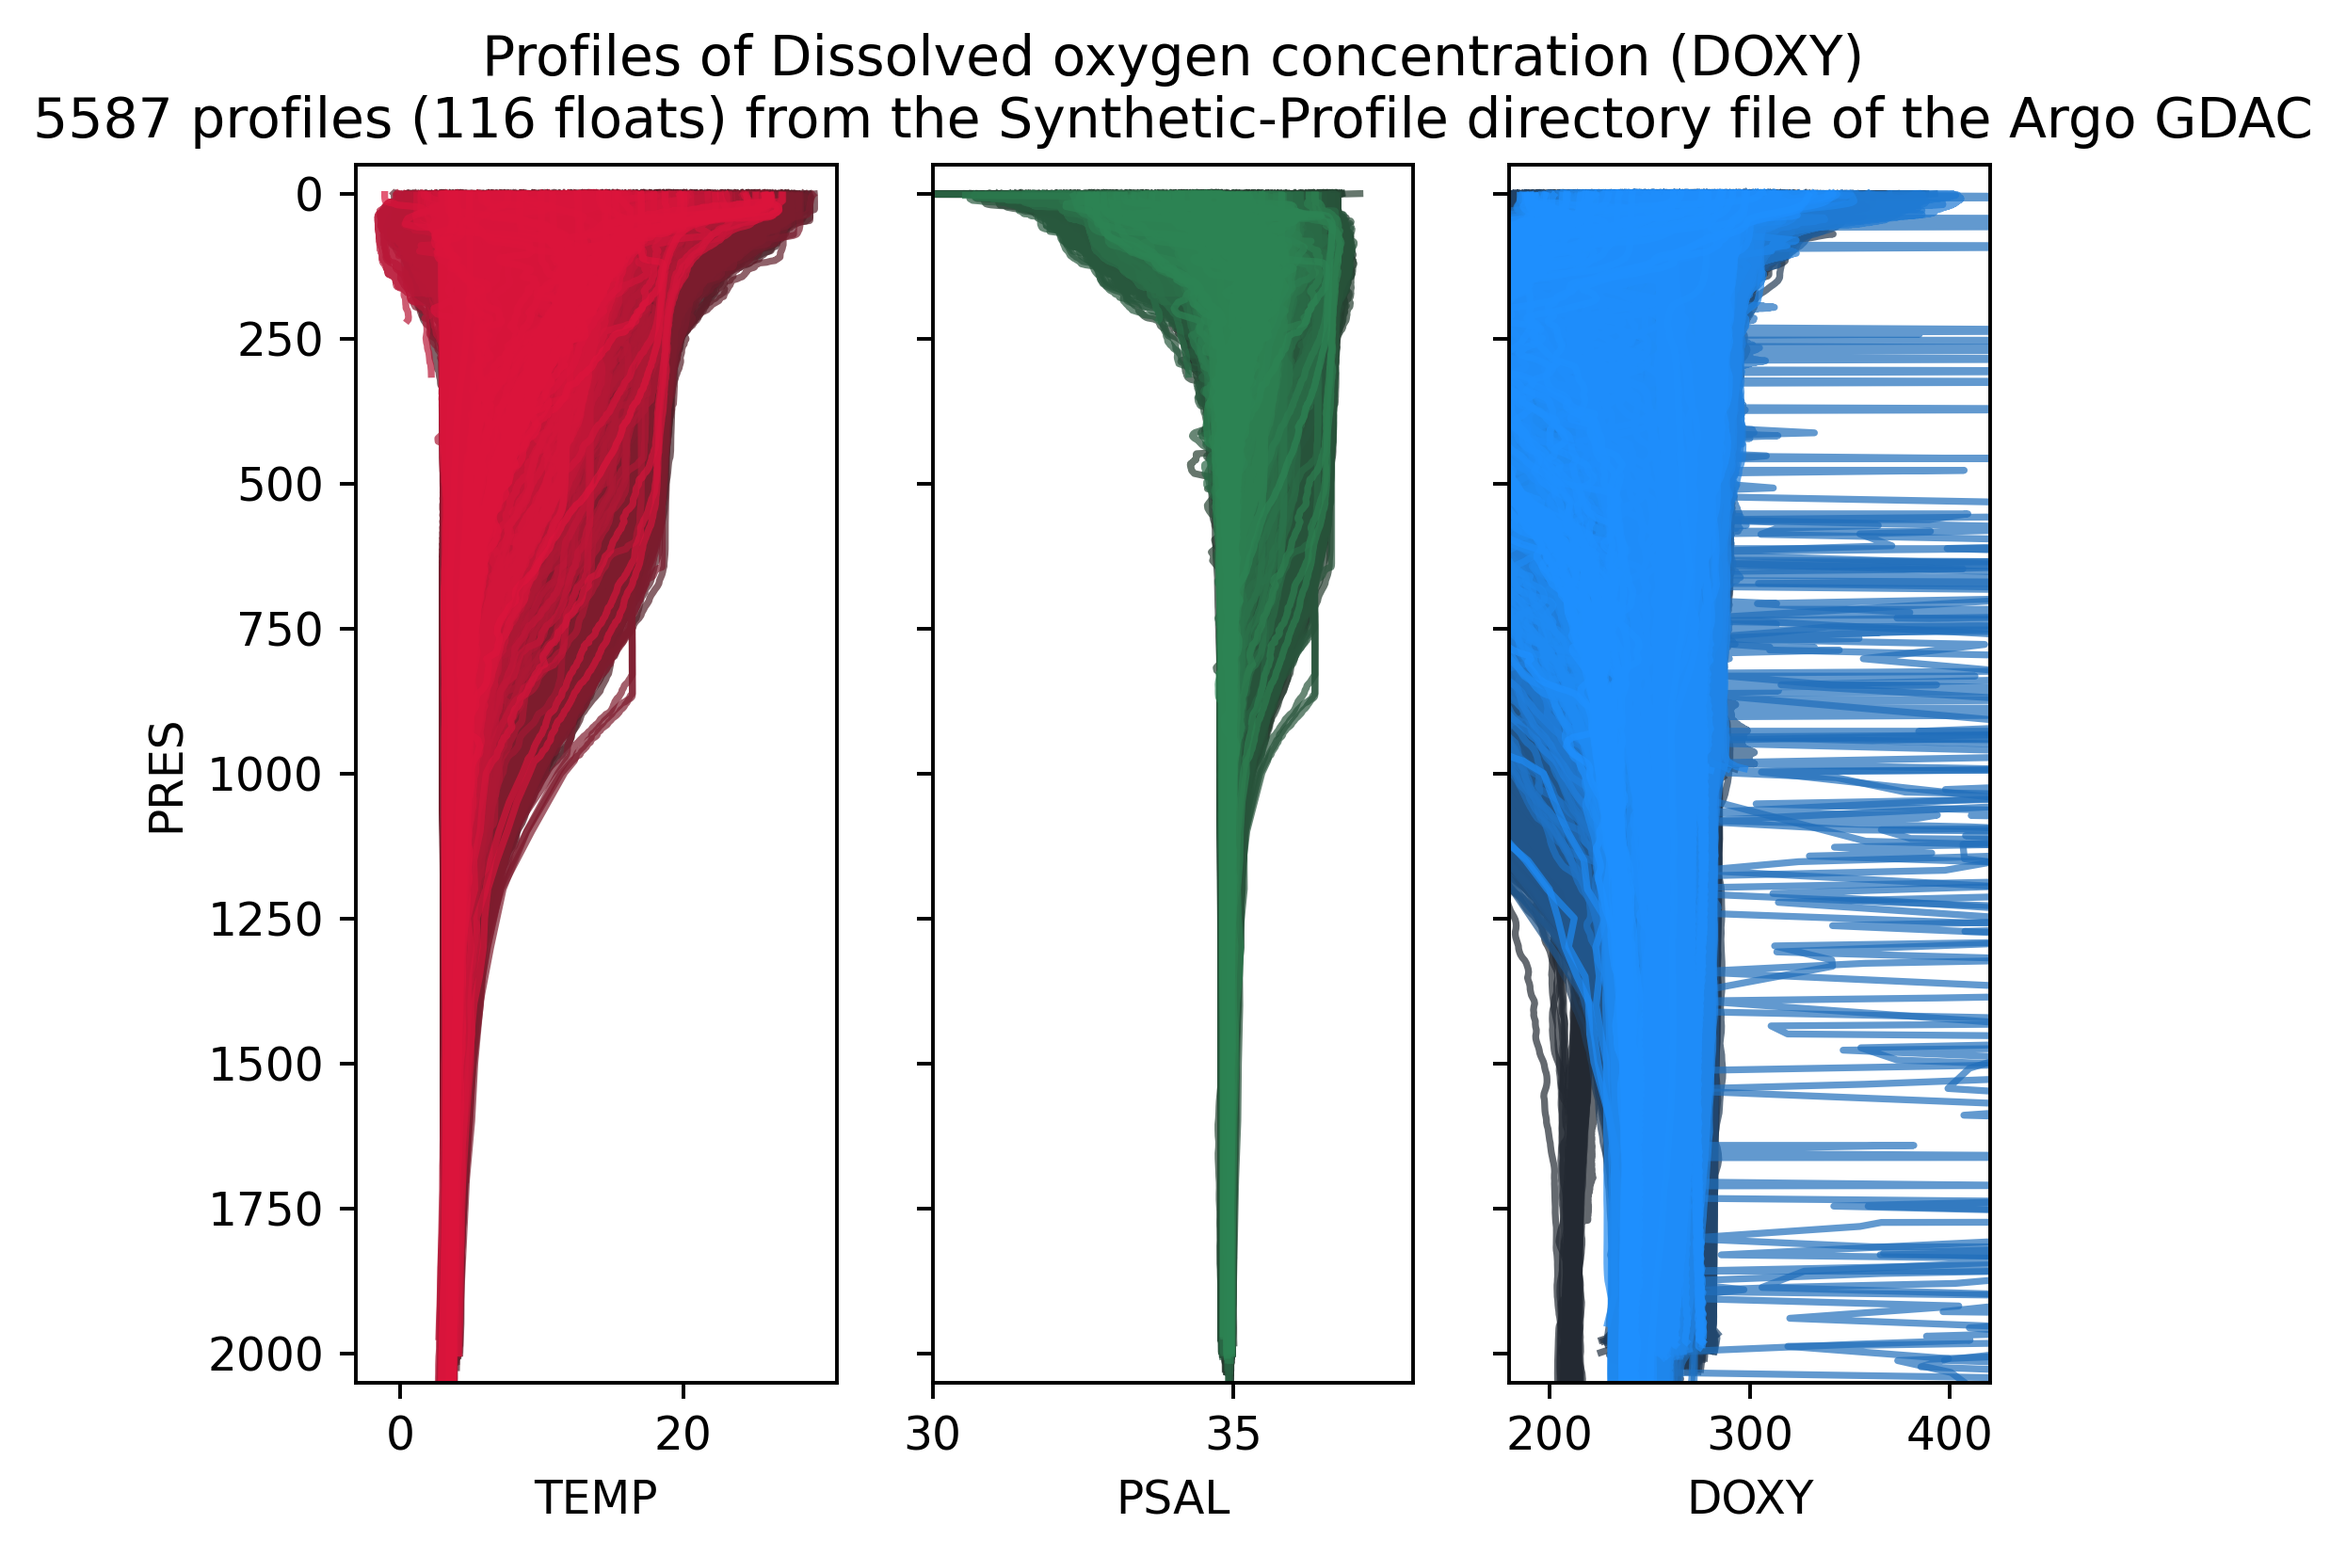
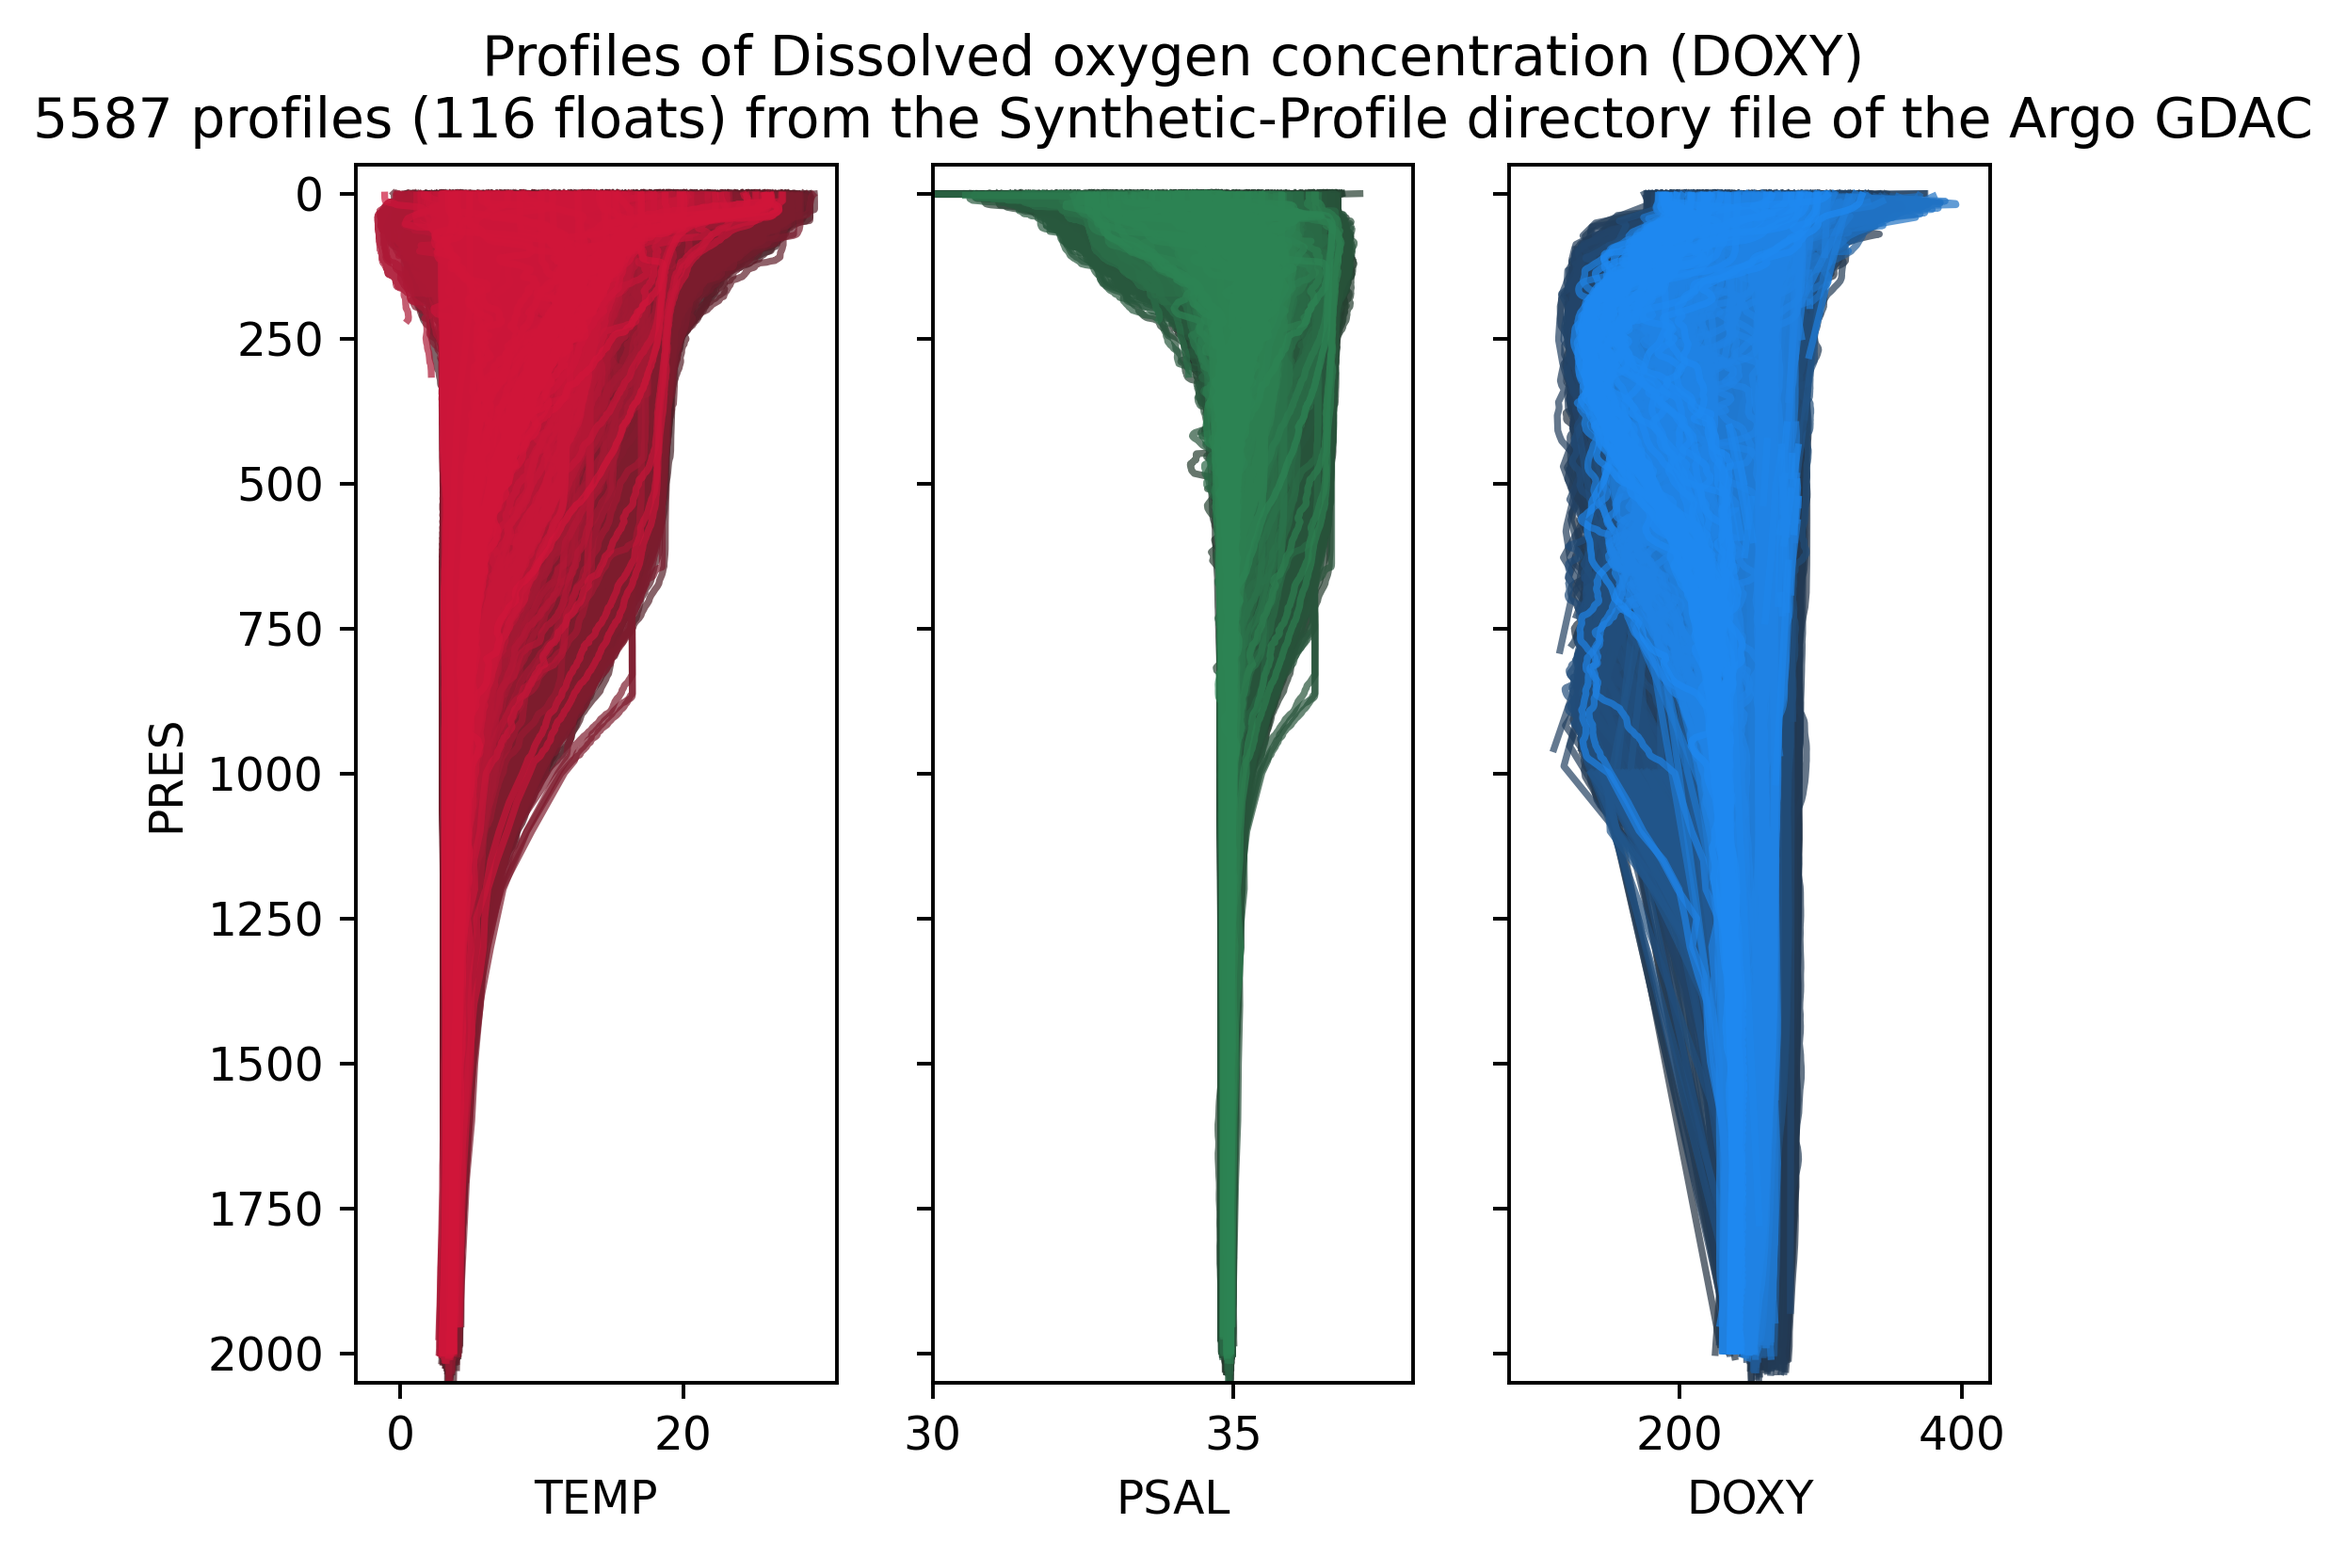
README and fiigure updates

Changed region(s): [[0.618, 0.1234, 0.8652, 0.9256], [0.2472, 0.2777, 0.2781, 0.3085], [0.1854, 0.8639, 0.2163, 0.8947]]

diff --git a/analysis/initial_data_vis/na-doxy.py b/analysis/initial_data_vis/na-doxy.py
@@ -45,23 +45,25 @@ for region in Path('../../meta/regions').glob('scotian*.csv'):
     
     profiles = profiles.reset_index()
 
+    good_data = (profiles.DOXY_QC < 4) & ((profiles.TEMP_QC.isin([1, 2])) & (profiles.PSAL_QC.isin([1, 2])))
+
     fig, axes = plt.subplots(1, 3, sharey=True)
     g = sns.lineplot(
-        data=profiles.loc[profiles.TEMP_QC.isin([1, 2])], x='TEMP', y='PRES', 
+        data=profiles.loc[good_data], x='TEMP', y='PRES', 
         hue='PLATFORM_NUMBER', units='CYCLE_NUMBER', 
         palette=sns.dark_palette('crimson', n_colors=n_floats), alpha=0.7,
         orient='y', estimator=None, legend=False,
         ax=axes[0]
     )
     g = sns.lineplot(
-        data=profiles.loc[profiles.PSAL_QC.isin([1, 2])], x='PSAL', y='PRES', 
+        data=profiles.loc[good_data], x='PSAL', y='PRES', 
         hue='PLATFORM_NUMBER', units='CYCLE_NUMBER', 
         palette=sns.dark_palette('seagreen', n_colors=n_floats), alpha=0.7,
         orient='y', estimator=None, legend=False,
         ax=axes[1]
     )
     g = sns.lineplot(
-        data=profiles.loc[profiles.DOXY_QC < 4], x='DOXY', y='PRES', 
+        data=profiles.loc[good_data], x='DOXY', y='PRES', 
         hue='PLATFORM_NUMBER', units='CYCLE_NUMBER', 
         palette=sns.dark_palette('dodgerblue', n_colors=n_floats), alpha=0.7,
         orient='y', estimator=None, legend=False,
@@ -70,14 +72,13 @@ for region in Path('../../meta/regions').glob('scotian*.csv'):
 
     axes[0].set_ylim((2050, -50))
     axes[1].set_xlim((30, 38))
-    axes[2].set_xlim((180, 420))
+    axes[2].set_xlim((80, 420))
 
     axes[1].set_title(f"Profiles of {param_info['prefLabel']} ({param})\n{ix.N_MATCH} profiles ({n_floats} floats) from the {ix.convention_title}")
     fig.savefig(f'figures/{region.name.replace(".csv", "")}_doxy_profiles.png', dpi=350, bbox_inches='tight')
     plt.close(fig)
 
     fig, axes = plt.subplots(3, 1, sharex=True)
-    good_data = (profiles.DOXY_QC < 4) & ((profiles.TEMP_QC.isin([1, 2])) & (profiles.PSAL_QC.isin([1, 2])))
     surf = 50
     surface = profiles.loc[(profiles.PRES < surf) & (good_data)]
 
@@ -86,7 +87,7 @@ for region in Path('../../meta/regions').glob('scotian*.csv'):
     sns.scatterplot(data=surface, x='TIME', y='DOXY', hue='PLATFORM_NUMBER', palette=sns.dark_palette('dodgerblue', n_colors=n_floats), alpha=0.7, legend=False, ax=axes[2])
 
     axes[1].set_ylim((30, 38))
-    axes[2].set_ylim((180, 420))
+    axes[2].set_ylim((80, 420))
 
     axes[0].set_title(f"Timeseries for the top {surf}m of {param_info['prefLabel']} ({param})\n{ix.N_MATCH} profiles ({df.wmo.unique().shape[0]} floats) from the {ix.convention_title}")
     fig.savefig(f'figures/{region.name.replace(".csv", "")}_timeseries.png', dpi=350, bbox_inches='tight')

diff --git a/analysis/README.md b/analysis/README.md
@@ -16,10 +16,14 @@ A few areas of interest have been defined to make an initial analysis more manag
 
 ![Scotian Shelf map](data_availability/figures/scotian_shelf_doxy_profiles_map.png)
 
-Over the past 5 years there are x profiles from x floats:
+Since 2020 there are 5587 profiles from 116 floats:
 
 ![SS DOXY profiles](initial_data_vis/figures/scotian_shelf_doxy_profiles.png)
 
 Creating the following timeseries also over the last 5 years:
 
 ![SS physics and DOXY timeseries](initial_data_vis/figures/scotian_shelf_timeseries.png)
+
+TS diagram: 
+
+![SS TS Diagram with DOXY](initial_data_vis/figures/scotian_shelf_timeseries.png)
